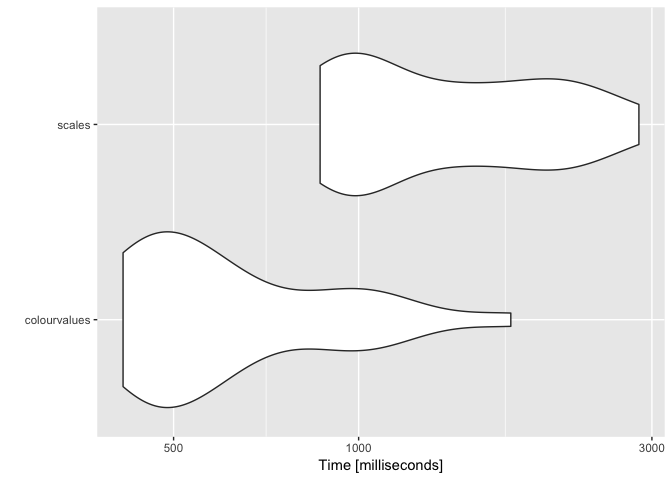
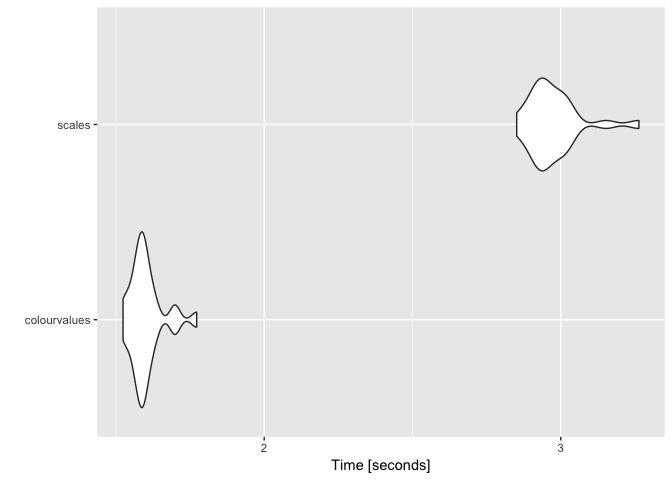
readme, description and getting readady

diff --git a/README.md b/README.md
@@ -244,11 +244,11 @@ summary
 ``` r
 colour_values(rnorm(n = 10), n_summaries = 3, digits = 2)
 # $colours
-#  [1] "#49C16EFF" "#31668EFF" "#20938CFF" "#54C568FF" "#FDE725FF"
-#  [6] "#440154FF" "#F6E61FFF" "#47C06FFF" "#1F998AFF" "#38578CFF"
+#  [1] "#DAE319FF" "#F8E621FF" "#1F978BFF" "#84D44BFF" "#1E9B8AFF"
+#  [6] "#FDE725FF" "#31678EFF" "#2F6D8EFF" "#A6DB35FF" "#440154FF"
 # 
 # $summary_values
-# [1] "-1.55" "0.11"  "1.77" 
+# [1] "-2.31" "-0.87" "0.57" 
 # 
 # $summary_colours
 # [1] "#440154FF" "#21908CFF" "#FDE725FF"
@@ -298,26 +298,28 @@ values, and their associated colours
 ``` r
 colour_values(sample(letters, size = 50, replace = T), summary = T)
 # $colours
-#  [1] "#481567FF" "#453781FF" "#73D055FF" "#404788FF" "#29AF7FFF"
-#  [6] "#238A8DFF" "#29AF7FFF" "#1F968BFF" "#95D840FF" "#482677FF"
-# [11] "#3CBB75FF" "#FDE725FF" "#238A8DFF" "#39568CFF" "#95D840FF"
-# [16] "#39568CFF" "#DCE319FF" "#73D055FF" "#440154FF" "#FDE725FF"
-# [21] "#238A8DFF" "#1F968BFF" "#B8DE29FF" "#39568CFF" "#95D840FF"
-# [26] "#440154FF" "#95D840FF" "#33638DFF" "#404788FF" "#453781FF"
-# [31] "#287D8EFF" "#33638DFF" "#FDE725FF" "#2D708EFF" "#55C667FF"
-# [36] "#2D708EFF" "#404788FF" "#482677FF" "#2D708EFF" "#B8DE29FF"
-# [41] "#95D840FF" "#1F968BFF" "#20A387FF" "#20A387FF" "#482677FF"
-# [46] "#287D8EFF" "#453781FF" "#404788FF" "#39568CFF" "#20A387FF"
+#  [1] "#C9E01FFF" "#1F9E88FF" "#22A884FF" "#E4E418FF" "#1F9E88FF"
+#  [6] "#3ABA76FF" "#3ABA76FF" "#2E6E8EFF" "#26828EFF" "#1F958BFF"
+# [11] "#22A884FF" "#2E6E8EFF" "#C9E01FFF" "#E4E418FF" "#E4E418FF"
+# [16] "#471063FF" "#472B7AFF" "#7AD151FF" "#FDE725FF" "#26828EFF"
+# [21] "#1F958BFF" "#228B8DFF" "#4DC36CFF" "#375A8CFF" "#481E70FF"
+# [26] "#440154FF" "#7AD151FF" "#453882FF" "#7AD151FF" "#7AD151FF"
+# [31] "#FDE725FF" "#4DC36CFF" "#93D741FF" "#3C4F8BFF" "#2E6E8EFF"
+# [36] "#32648EFF" "#3C4F8BFF" "#32648EFF" "#2CB17EFF" "#62CA5FFF"
+# [41] "#3C4F8BFF" "#228B8DFF" "#414487FF" "#2A788EFF" "#453882FF"
+# [46] "#AEDC30FF" "#AEDC30FF" "#375A8CFF" "#26828EFF" "#471063FF"
 # 
 # $summary_values
-#  [1] "a" "b" "e" "f" "g" "h" "i" "j" "l" "m" "n" "o" "q" "r" "s" "u" "w"
-# [18] "x" "y" "z"
+#  [1] "a" "b" "c" "d" "e" "f" "g" "h" "i" "j" "k" "l" "m" "n" "o" "p" "q"
+# [18] "r" "s" "t" "u" "v" "w" "x" "y" "z"
 # 
 # $summary_colours
-#  [1] "#440154FF" "#481567FF" "#482677FF" "#453781FF" "#404788FF"
-#  [6] "#39568CFF" "#33638DFF" "#2D708EFF" "#287D8EFF" "#238A8DFF"
-# [11] "#1F968BFF" "#20A387FF" "#29AF7FFF" "#3CBB75FF" "#55C667FF"
-# [16] "#73D055FF" "#95D840FF" "#B8DE29FF" "#DCE319FF" "#FDE725FF"
+#  [1] "#440154FF" "#471063FF" "#481E70FF" "#472B7AFF" "#453882FF"
+#  [6] "#414487FF" "#3C4F8BFF" "#375A8CFF" "#32648EFF" "#2E6E8EFF"
+# [11] "#2A788EFF" "#26828EFF" "#228B8DFF" "#1F958BFF" "#1F9E88FF"
+# [16] "#22A884FF" "#2CB17EFF" "#3ABA76FF" "#4DC36CFF" "#62CA5FFF"
+# [21] "#7AD151FF" "#93D741FF" "#AEDC30FF" "#C9E01FFF" "#E4E418FF"
+# [26] "#FDE725FF"
 ```
 
 -----
@@ -332,7 +334,7 @@ library(ggplot2)
 library(scales)
 library(viridisLite)
 
-n <- 1e6
+n <- 1e7
 df <- data.frame(x = rnorm(n = n))
 
 m <- microbenchmark(
@@ -341,13 +343,10 @@ m <- microbenchmark(
   times = 25
 )
 m
-# Unit: milliseconds
-#          expr      min       lq     mean    median        uq      max
-#  colourvalues 413.7846 465.2459  667.549  533.3406  775.9402 1768.377
-#        scales 865.6236 985.3206 1476.348 1357.1543 2078.2787 2857.309
-#  neval
-#     25
-#     25
+# Unit: seconds
+#          expr      min       lq     mean   median       uq      max neval
+#  colourvalues 1.648931 1.677334 1.700990 1.694654 1.709067 1.823521    25
+#        scales 2.824650 2.908006 2.968315 2.945947 3.013193 3.338338    25
 
 autoplot(m)
 # Coordinate system already present. Adding new coordinate system, which will replace the existing one.
@@ -363,7 +362,7 @@ library(ggplot2)
 library(scales)
 library(viridisLite)
 
-n <- 5e5
+n <- 1e6
 x <- sample(x = letters, size = n, replace = TRUE)
 df <- data.frame(x = x)
 
@@ -375,8 +374,8 @@ m <- microbenchmark(
 m
 # Unit: milliseconds
 #          expr      min       lq     mean   median       uq      max neval
-#  colourvalues 219.6011 251.1079 281.4803 257.8884 268.8997 457.7094    25
-#        scales 392.0473 418.4014 536.5625 453.4664 566.0392 999.5088    25
+#  colourvalues 188.1557 190.9667 194.2682 192.4433 194.4276 244.0605    25
+#        scales 300.0350 314.6473 323.1116 316.2003 318.6083 409.6637    25
 
 autoplot(m)
 # Coordinate system already present. Adding new coordinate system, which will replace the existing one.
